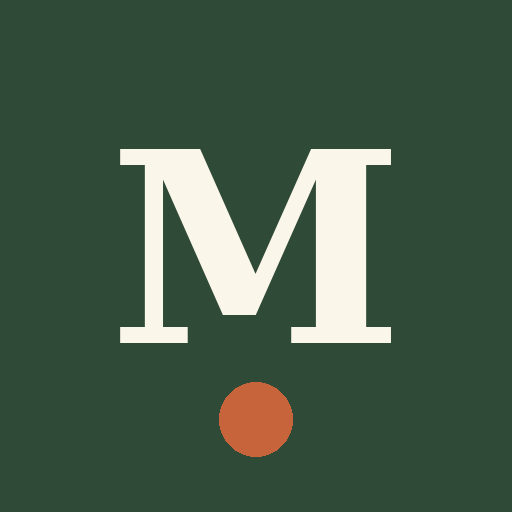
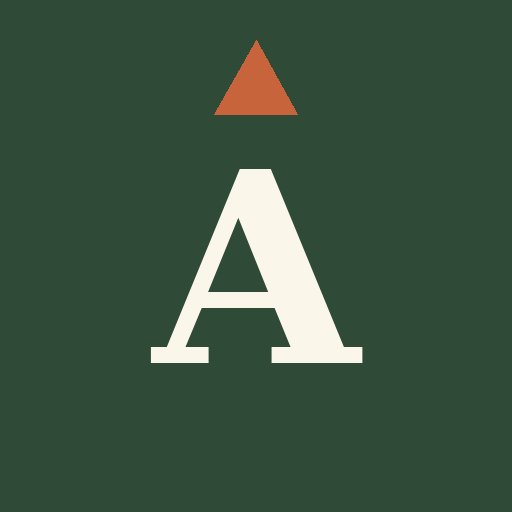
Renommage en Ascend
Claude-Session: https://claude.ai/code/session_01KdXiuTWruu2VVU9YXtstJS

Changed region(s): [[0.2188, 0.2812, 0.7812, 0.7188], [0.4062, 0.75, 0.5938, 0.9062], [0.4062, 0.0938, 0.5938, 0.25]]

diff --git a/index.html b/index.html
@@ -2,12 +2,12 @@
 <html lang="fr"><head>
 <meta charset="utf-8">
 <meta name="viewport" content="width=device-width,initial-scale=1,viewport-fit=cover">
-<title>Ma vie</title>
+<title>Ascend</title>
 <meta name="theme-color" content="#2F4A37">
 <meta name="apple-mobile-web-app-capable" content="yes">
 <meta name="mobile-web-app-capable" content="yes">
 <meta name="apple-mobile-web-app-status-bar-style" content="black-translucent">
-<meta name="apple-mobile-web-app-title" content="Ma vie">
+<meta name="apple-mobile-web-app-title" content="Ascend">
 <link rel="manifest" href="manifest.webmanifest">
 <link rel="apple-touch-icon" href="icons/apple-touch-icon.png">
 <link rel="icon" href="icons/icon-192.png">

diff --git a/sw.js b/sw.js
@@ -1,4 +1,4 @@
-const C='mv-v1';
+const C='mv-v2';
 const SHELL=['./','index.html','manifest.webmanifest','icons/icon-192.png','icons/icon-512.png','icons/apple-touch-icon.png'];
 self.addEventListener('install',e=>{e.waitUntil(caches.open(C).then(c=>c.addAll(SHELL)).then(()=>self.skipWaiting()))});
 self.addEventListener('activate',e=>{e.waitUntil(caches.keys().then(k=>Promise.all(k.filter(x=>x!==C).map(x=>caches.delete(x)))).then(()=>self.clients.claim()))});

diff --git a/README.md b/README.md
@@ -1,3 +1,3 @@
-# Ma vie
-Appli perso (cuisine, habitudes, muscu, budget, journal, niveaux). Code seulement : aucune donnée personnelle ici.
+# Ascend
+Appli perso Ascend (cuisine, habitudes, muscu, budget, journal, niveaux). Code seulement : aucune donnée personnelle ici.
 Les données sont sauvegardées dans un dépôt privé séparé.
